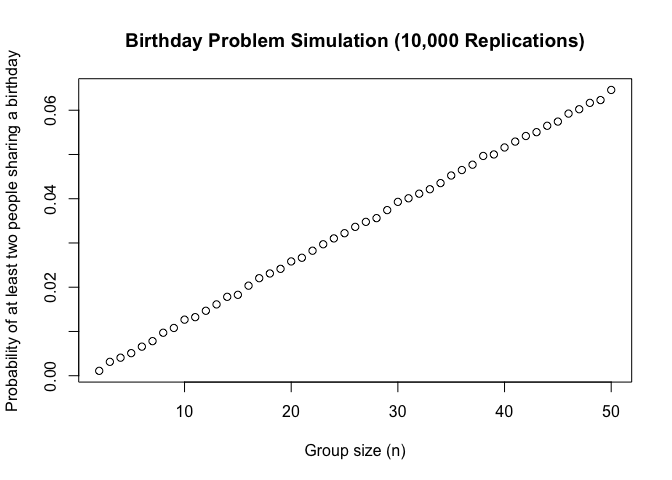
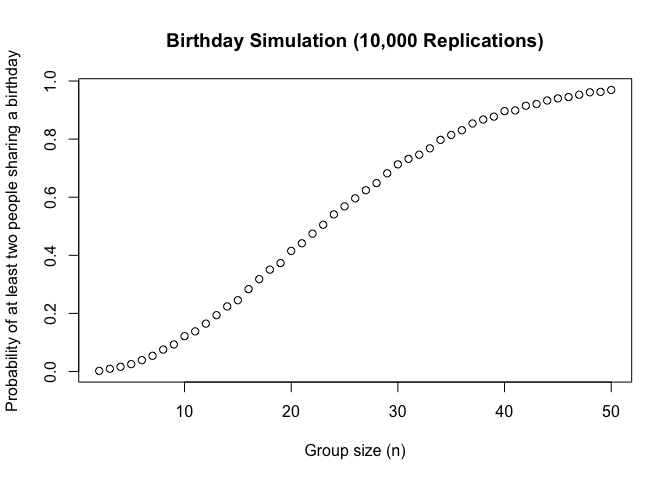
problem 2

diff --git a/p8105_hw5_xc2784.md b/p8105_hw5_xc2784.md
@@ -2,10 +2,12 @@ p8105_hw5_xc2784
 ================
 2025-11-14
 
+### problem 1
+
 ``` r
 duplicate_birthday <- function(n, days = 365) {
   birthdays <- sample.int(days, n, replace = TRUE)
-  return(duplicated(birthdays))
+  any(duplicated(birthdays))
 }
 ```
 
@@ -20,8 +22,106 @@ prob_shared <- sapply(group_sizes, sim_prob)
 plot(group_sizes, prob_shared,
      xlab = "Group size (n)",
      ylab = "Probability of at least two people sharing a birthday",
-     main = "Birthday Problem Simulation (10,000 Replications)")
-abline(h = 0.5, lty = 2)
+     main = "Birthday Simulation (10,000 Replications)")
 ```
 
-![](p8105_hw5_xc2784_files/figure-gfm/unnamed-chunk-2-1.png)<!-- -->
+![](p8105_hw5_xc2784_files/figure-gfm/unnamed-chunk-2-1.png)<!-- --> The
+plot shows the probability that at least two people in a group share a
+birthday as the group size increases from 2 to 50. The curve starts near
+zero for very small groups and rises slowly at first, but then increases
+rapidly between group sizes of about 15 to 30, and approaches 1 when the
+group size grows to about 50.
+
+### problem 2
+
+``` r
+set.seed(10)
+n <- 30
+sigma <- 5
+mu_values <- 0:6
+reps <- 5000L
+alpha <- 0.05
+```
+
+``` r
+simulate1 <- function(mu, n, sigma) {
+    x <- rnorm(n, mean = mu, sd = sigma)
+    test <- t.test(x, mu = 0)
+    tibble(
+    mu      = mu,
+    mu_hat  = mean(x),
+    p_value = tidy(test)$p.value
+  )
+}
+
+simulation_results <- mu_values %>%  
+  map_df(~ bind_rows(replicate(reps, simulate1(.x, n, sigma), simplify = FALSE))
+)
+
+dplyr::glimpse(simulation_results)
+```
+
+    ## Rows: 35,000
+    ## Columns: 3
+    ## $ mu      <int> 0, 0, 0, 0, 0, 0, 0, 0, 0, 0, 0, 0, 0, 0, 0, 0, 0, 0, 0, 0, 0,…
+    ## $ mu_hat  <dbl> -1.72338223, -0.56433529, -0.06373376, 0.82176074, -0.54577899…
+    ## $ p_value <dbl> 0.03769650, 0.51941790, 0.94476785, 0.33832357, 0.55589101, 0.…
+
+``` r
+summary_results <- simulation_results %>%
+  mutate(reject = p_value < alpha) %>% 
+  group_by(mu) %>%
+  summarise(
+    power = mean(reject),
+    avg_mu_hat = mean(mu_hat),
+    avg_mu_hat_reject = mean(mu_hat[reject])
+  )
+
+dplyr::glimpse(summary_results)
+```
+
+    ## Rows: 7
+    ## Columns: 4
+    ## $ mu                <int> 0, 1, 2, 3, 4, 5, 6
+    ## $ power             <dbl> 0.0484, 0.1884, 0.5542, 0.8876, 0.9882, 0.9994, 1.00…
+    ## $ avg_mu_hat        <dbl> -0.02322427, 1.01178046, 1.98914725, 2.99978138, 3.9…
+    ## $ avg_mu_hat_reject <dbl> 0.09830947, 2.27241568, 2.61868664, 3.18812983, 4.01…
+
+``` r
+ggplot(summary_results, aes(x = mu, y = power)) +
+  geom_line() +
+  geom_point() +
+  labs(
+    title = "Power Curve for One-Sample t-test (n = 30, 𝜎=5)",
+    x = "True mean (μ)",
+    y = "Power (Probability of Rejecting H0)"
+  ) +
+  theme_minimal()
+```
+
+![](p8105_hw5_xc2784_files/figure-gfm/unnamed-chunk-6-1.png)<!-- -->
+There is a positive association between effect size and power, that
+larger true effects are easier to detect.
+
+``` r
+ggplot(summary_results, aes(x = mu)) +
+  geom_line(aes(y = avg_mu_hat, color = "All samples")) +
+  geom_line(aes(y = avg_mu_hat_reject, color = "Only rejected H0")) +
+  labs(
+    title = "Average Estimated Mean vs. True Mean",
+    x = "True mean (μ)",
+    y = expression(Average~hat(mu))
+  ) +
+  theme_minimal()
+```
+
+![](p8105_hw5_xc2784_files/figure-gfm/unnamed-chunk-7-1.png)<!-- --> No,
+the sample average of 𝜇̂ across tests for which the null is rejected is
+not approximately equal to the true value of 𝜇, especially for smaller
+effect sizes. When we only look at the cases that achieved statistical
+significance, we’re essentially selecting the samples where random
+variation happened to make the estimated mean unusually large. This
+selective process causes the average estimate to be biased upward
+compared to the true mean. As the true mean increases and the test gains
+more power, nearly all samples become significant, and this bias become
+smaller.
